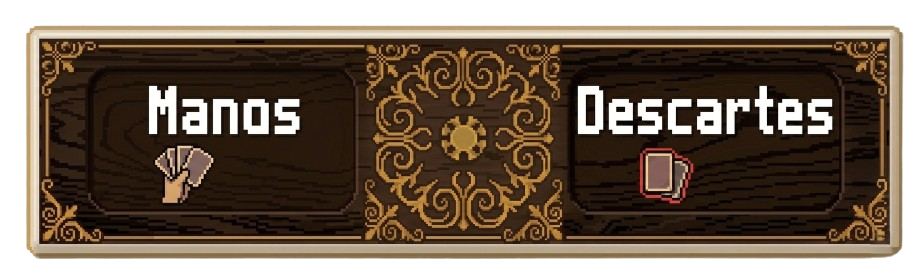
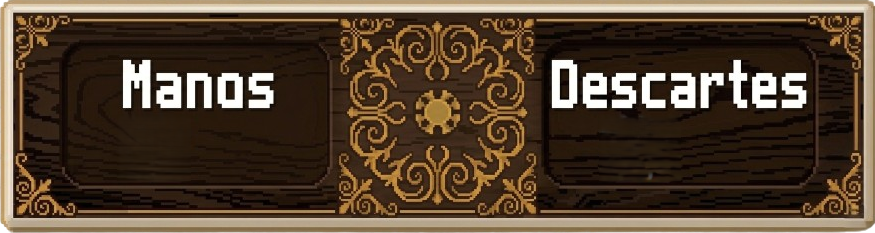
adelantos cabrones

diff --git a/src/main/java/com/mijuego/screens/GameplayScreen.java b/src/main/java/com/mijuego/screens/GameplayScreen.java
@@ -21,7 +21,7 @@ public class GameplayScreen extends ScreenAdapter {
     private Stage stage;
     private Image fondoMesa;
 
-    private Texture mesaFondoTex, anteRondasTex, mazoTex, descartesTex, botonOptionTex;
+    private Texture mesaFondoTex, anteRondasTex, mazoTex, descartesTex, botonOptionTex, marcadorTex, roundScoreTex;
     private Texture jokerAristotelesTex, jokerMorganTex;
 
     private Array<Texture> poolVariablesTex;
@@ -38,13 +38,13 @@ public class GameplayScreen extends ScreenAdapter {
 
     private Random random;
 
-    // --- DIMENSIONES REDUCIDAS ---
-    private final float ANCHO_CARTA = 175f;
+    // --- DIMENSIONES DE LAS CARTAS ---
+    private final float ANCHO_CARTA = 220f;
     private final float ALTO_CARTA = 195f;
     private final float Y_ZONA_MANO = 40f;
-    private final float ESPACIO_HORIZONTAL_MANO = 130f;
+    private final float ESPACIO_HORIZONTAL_MANO = 100f;
     private final float Y_ZONA_TABLERO = 340f;
-    private final float ESPACIO_HORIZONTAL_TABLERO = 140f;
+    private final float ESPACIO_HORIZONTAL_TABLERO = 110f;
     private final float UMBRAL_Y_DIVISION = 250f;
 
     private final float[] POSICIONES_X_MANO = new float[6];
@@ -73,11 +73,17 @@ public class GameplayScreen extends ScreenAdapter {
         generarManoAleatoria();
     }
 
+    public float getEspacioHorizontalMano() { return ESPACIO_HORIZONTAL_MANO; }
+    public float getEspacioHorizontalTablero() { return ESPACIO_HORIZONTAL_TABLERO; }
+    public Array<CartaActor> getCartasTablero() { return cartasTablero; }
+
     private void cargarAssets() {
         mesaFondoTex = new Texture(Gdx.files.internal("mesa_juego_balatro.png"));
         anteRondasTex = new Texture(Gdx.files.internal("Ante_Rondas.png"));
         mazoTex = new Texture(Gdx.files.internal("mazoDeCartas_juego.png"));
         descartesTex = new Texture(Gdx.files.internal("Mano_descartes.png"));
+        marcadorTex = new Texture(Gdx.files.internal("marcador_juego.png"));
+        roundScoreTex = new Texture(Gdx.files.internal("Roundscore_juego.png"));
         botonOptionTex = new Texture(Gdx.files.internal("boton_option.png"));
         jokerAristotelesTex = new Texture(Gdx.files.internal("jokerDeAristoteles.png"));
         jokerMorganTex = new Texture(Gdx.files.internal("jokerDeMorgan.png"));
@@ -105,16 +111,34 @@ public class GameplayScreen extends ScreenAdapter {
     }
 
     private void construirInterfaz() {
-        int srcY = (int) (mesaFondoTex.getHeight() * 0.11f);
-        TextureRegion regionMesa = new TextureRegion(mesaFondoTex, 0, srcY, mesaFondoTex.getWidth(), (int)(mesaFondoTex.getHeight() * 0.78f));
+        TextureRegion regionMesa = new TextureRegion(mesaFondoTex, 0, 0, mesaFondoTex.getWidth(), mesaFondoTex.getHeight());
         fondoMesa = new Image(regionMesa);
         fondoMesa.setSize(1280f, 720f);
         stage.addActor(fondoMesa);
 
+        // Asset 1: Ante / Ronda (Base HUD Izquierdo)
         Image anteRondas = new Image(anteRondasTex);
-        anteRondas.setSize(180f, 115f);
-        anteRondas.setPosition(35f, 560f);
+        anteRondas.setSize(230f, 165f);
+        anteRondas.setPosition(5f, 20f);
         stage.addActor(anteRondas);
+
+        // Asset 2: Manos / Descartes (En el medio, encima del Ante)
+        Image manosDescartes = new Image(descartesTex);
+        manosDescartes.setSize(230f, 165f);
+        manosDescartes.setPosition(5f, 195f);
+        stage.addActor(manosDescartes);
+
+        // Asset 3: Marcador del Juego (Altura recortada a la mitad)
+        Image marcadorJuego = new Image(marcadorTex);
+        marcadorJuego.setSize(230f, 82.5f);
+        marcadorJuego.setPosition(5f, 370f);
+        stage.addActor(marcadorJuego);
+
+        // MODIFICADO: Asset 4 Puntuación de Ronda ajustado (-30% de alto y más cercano al marcador)
+        Image roundScore = new Image(roundScoreTex);
+        roundScore.setSize(230f, 115.5f);     // Alto original reducido un 30% (165f * 0.70)
+        roundScore.setPosition(5f, 454.5f);   // Ubicado a 2f de distancia del borde superior del marcador (370f + 82.5f + 2f)
+        stage.addActor(roundScore);
 
         Image jokerAristoteles = new Image(jokerAristotelesTex);
         jokerAristoteles.setSize(115f, 155f);
@@ -126,26 +150,21 @@ public class GameplayScreen extends ScreenAdapter {
         jokerMorgan.setPosition(570f, 520f);
         stage.addActor(jokerMorgan);
 
-        Image descartes = new Image(descartesTex);
-        descartes.setSize(110f, 155f);
-        descartes.setPosition(1080f, 40f);
-        stage.addActor(descartes);
-
         Image mazo = new Image(mazoTex);
         mazo.setSize(110f, 155f);
         mazo.setPosition(1160f, 40f);
         stage.addActor(mazo);
 
-        Image botonJugarMano = new Image(botonOptionTex);
-        botonJugarMano.setSize(160f, 60f);
-        botonJugarMano.setPosition(1080f, 340f);
-        botonJugarMano.addListener(new ClickListener() {
+        Image botonOpciones = new Image(botonOptionTex);
+        botonOpciones.setSize(75f, 105f);
+        botonOpciones.setPosition(1185f, 595f);
+        botonOpciones.addListener(new ClickListener() {
             @Override
             public void clicked(InputEvent event, float x, float y) {
                 procesarManoJugada();
             }
         });
-        stage.addActor(botonJugarMano);
+        stage.addActor(botonOpciones);
     }
 
     private void generarManoAleatoria() {
@@ -204,7 +223,7 @@ public class GameplayScreen extends ScreenAdapter {
 
             @Override
             public void dragStop(InputEvent event, float x, float y, int pointer) {
-                procesarSoltadoMano(carta);
+                procesarSoltadoMano(carta, event.getStageX());
             }
         });
     }
@@ -215,6 +234,7 @@ public class GameplayScreen extends ScreenAdapter {
                 slotsMano[i].setSlotActual(i);
                 slotsMano[i].setSize(ANCHO_CARTA, ALTO_CARTA);
                 slotsMano[i].forzarAposicionBase(POSICIONES_X_MANO[i], Y_ZONA_MANO);
+                slotsMano[i].toFront();
             }
         }
 
@@ -227,6 +247,7 @@ public class GameplayScreen extends ScreenAdapter {
                 float destinoX = xInicialCentrado + (i * ESPACIO_HORIZONTAL_TABLERO);
                 carta.setSize(ANCHO_CARTA, ALTO_CARTA);
                 carta.forzarAposicionBase(destinoX, Y_ZONA_TABLERO);
+                carta.toFront();
             }
         }
     }
@@ -248,7 +269,7 @@ public class GameplayScreen extends ScreenAdapter {
         redibujarEstructuraFija();
     }
 
-    public void procesarSoltadoMano(CartaActor carta) {
+    public void procesarSoltadoMano(CartaActor carta, float stageX) {
         float centroY = carta.getY() + (carta.getHeight() / 2f);
         int slotOrigenMano = carta.getSlotActual();
 
@@ -276,7 +297,7 @@ public class GameplayScreen extends ScreenAdapter {
             }
         } else {
             if (carta.estaEnTablero()) {
-                int slotDestinoMano = calcularSlotManoPorCoordenadaX(carta.getX());
+                int slotDestinoMano = calcularSlotManoPorCoordenadaX(stageX);
 
                 if (slotsMano[slotDestinoMano] == null) {
                     cartasTablero.removeValue(carta, true);
@@ -291,7 +312,7 @@ public class GameplayScreen extends ScreenAdapter {
                     }
                 }
             } else {
-                int slotDestinoMano = calcularSlotManoPorCoordenadaX(carta.getX());
+                int slotDestinoMano = calcularSlotManoPorCoordenadaX(stageX);
                 if (slotDestinoMano != slotOrigenMano) {
                     CartaActor cartaOcupante = slotsMano[slotDestinoMano];
                     slotsMano[slotOrigenMano] = cartaOcupante;
@@ -312,14 +333,13 @@ public class GameplayScreen extends ScreenAdapter {
         return -1;
     }
 
-    private int calcularSlotManoPorCoordenadaX(float x) {
+    private int calcularSlotManoPorCoordenadaX(float stageX) {
         int ranuraMejor = 0;
         float menorDistancia = Float.MAX_VALUE;
-        float centroCartaX = x + (ANCHO_CARTA / 2f);
 
         for (int i = 0; i < 6; i++) {
             float centroRanuraX = POSICIONES_X_MANO[i] + (ANCHO_CARTA / 2f);
-            float dist = Math.abs(centroCartaX - centroRanuraX);
+            float dist = Math.abs(stageX - centroRanuraX);
             if (dist < menorDistancia) {
                 menorDistancia = dist;
                 ranuraMejor = i;
@@ -361,9 +381,9 @@ public class GameplayScreen extends ScreenAdapter {
 
     @Override
     public void render(float delta) {
+        stage.getViewport().apply();
         Gdx.gl.glClearColor(0, 0, 0, 1);
         Gdx.gl.glClear(GL20.GL_COLOR_BUFFER_BIT);
-        stage.getViewport().apply();
         stage.act(delta);
         stage.draw();
     }
@@ -380,6 +400,8 @@ public class GameplayScreen extends ScreenAdapter {
         anteRondasTex.dispose();
         mazoTex.dispose();
         descartesTex.dispose();
+        marcadorTex.dispose();
+        roundScoreTex.dispose();
         botonOptionTex.dispose();
         jokerAristotelesTex.dispose();
         jokerMorganTex.dispose();

diff --git a/src/main/java/com/mijuego/screens/CartaActor.java b/src/main/java/com/mijuego/screens/CartaActor.java
@@ -6,6 +6,7 @@ import com.badlogic.gdx.graphics.g2d.Batch;
 import com.badlogic.gdx.graphics.g2d.BitmapFont;
 import com.badlogic.gdx.graphics.g2d.GlyphLayout;
 import com.badlogic.gdx.scenes.scene2d.Actor;
+import com.badlogic.gdx.scenes.scene2d.Touchable;
 
 public class CartaActor extends Actor {
     private Texture textura;
@@ -29,13 +30,56 @@ public class CartaActor extends Actor {
         this.screen = screen;
         this.enTablero = false;
 
-        // TAMAÑO REDUCIDO: 175 x 195
-        setSize(175f, 195f);
+        setSize(220f, 195f);
         setPosition(xBase, yBase);
 
         this.font = new BitmapFont();
         this.font.setColor(Color.BLACK);
         this.layout = new GlyphLayout();
+    }
+
+    /**
+     * REVISIÓN DE VENTANA INTERACTIVA TOTAL:
+     * Ahora aplica el centrado simétrico a todas las cartas por igual,
+     * solucionando el solapamiento fantasma en el slot 5 y el último del tablero.
+     */
+    @Override
+    public Actor hit(float x, float y, boolean touchable) {
+        if (touchable && getTouchable() != Touchable.enabled) return null;
+
+        // Si el toque está completamente fuera de los límites físicos de la carta, se descarta
+        if (x < 0 || x >= getWidth() || y < 0 || y >= getHeight()) return null;
+
+        float centroCartaX = getWidth() / 2f;
+
+        // --- MANO: Corrección para todas las ranuras (incluyendo la 5) ---
+        if (!enTablero) {
+            float espacioMano = screen.getEspacioHorizontalMano(); // 100px
+            float radioPermitido = espacioMano / 2f;              // 50px a cada lado
+
+            float limiteIzquierdo = centroCartaX - radioPermitido;
+            float limiteDerecho = centroCartaX + radioPermitido;
+
+            // Al aplicar esto a todas, la carta 4 reduce su zona de impacto y ya no bloquea a la 5
+            if (x < limiteIzquierdo || x > limiteDerecho) {
+                return null;
+            }
+        }
+
+        // --- TABLERO: Corrección para todas las cartas en juego ---
+        if (enTablero) {
+            float espacioTablero = screen.getEspacioHorizontalTablero(); // 110px
+            float radioPermitido = espacioTablero / 2f;                  // 55px a cada lado
+
+            float limiteIzquierdo = centroCartaX - radioPermitido;
+            float limiteDerecho = centroCartaX + radioPermitido;
+
+            if (x < limiteIzquierdo || x > limiteDerecho) {
+                return null;
+            }
+        }
+
+        return this;
     }
 
     public void forzarAposicionBase(float x, float y) {
@@ -53,11 +97,9 @@ public class CartaActor extends Actor {
             float anchoMaximoTexto = getWidth() - (margenHorizontal * 2);
             float altoMaximoTexto = getHeight() - 35f;
 
-            // Escala reducida base (0.7f) para las letras más pequeñas
             font.getData().setScale(0.7f);
             layout.setText(font, textoPremisa, Color.BLACK, anchoMaximoTexto, com.badlogic.gdx.utils.Align.center, true);
 
-            // Reducción dinámica si el texto desborda las nuevas dimensiones
             while ((layout.width > anchoMaximoTexto || layout.height > altoMaximoTexto) && font.getData().scaleX > 0.3f) {
                 float nuevaEscala = font.getData().scaleX - 0.05f;
                 font.getData().setScale(nuevaEscala);